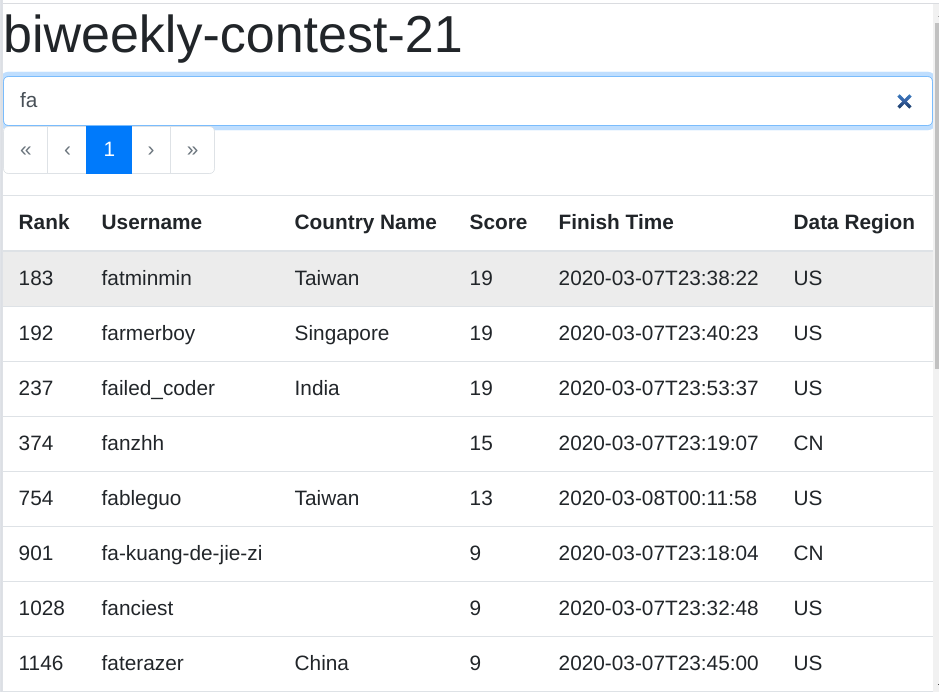
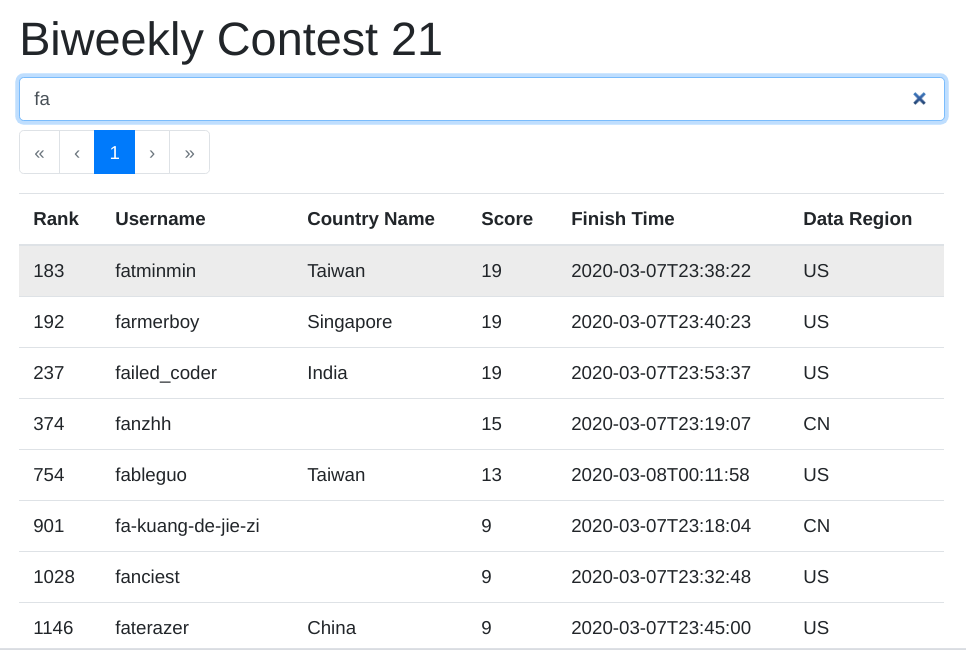
unslug title and add margin to table

diff --git a/contest.html b/contest.html
@@ -23,34 +23,37 @@
     <title>Leetcode Ranking</title>
   </head>
   <body>
-    <div id="app">
-      <h1>{{ title }}</h1>
+    <div id="app" class="p-5">
+      <h1>{{ unSlugTitle }}</h1>
+
       <b-form-input
         v-model="filter"
         debounce="500"
         type="search"
         placeholder="Type to Search"
-      ></b-form-input>
+        ></b-form-input>
 
       <b-pagination
         v-model="currentPage"
         :total-rows="total"
         :per-page="perPage"
+        class="mt-2"
         aria-controls="rank-table"
         ></b-pagination>
 
-        <b-table hover
-                 id="rank-table"
-                 :fields="fields"
-                 :items="rank"
-                 :per-page="perPage"
-                 :current-page="currentPage"
-                 :busy="isBusy"
-                 :filter="filter"
-                 :filter-function="filterUser"
-                 :filter-included-fields="filteredOn"
-                 @filtered="onFiltered"
-                 ></b-table>
+      <b-table hover
+        id="rank-table"
+        :fields="fields"
+        :items="rank"
+        :per-page="perPage"
+        :current-page="currentPage"
+        :busy="isBusy"
+        :filter="filter"
+        :filter-function="filterUser"
+        :filter-included-fields="filteredOn"
+        @filtered="onFiltered"
+        ></b-table>
+
     </div>
     <script>
       var app = new Vue({
@@ -69,6 +72,13 @@
         computed: {
           total: function() {
             return this.totalRows || this.rank.length;
+          },
+          unSlugTitle: function() {
+            words = this.title.split("-");
+            for(var i = 0 ; i < words.length ; i++){
+              words[i] = words[i].charAt(0).toUpperCase() + words[i].substr(1);
+            }
+            return words.join(" ");
           }
         },
         methods: {
